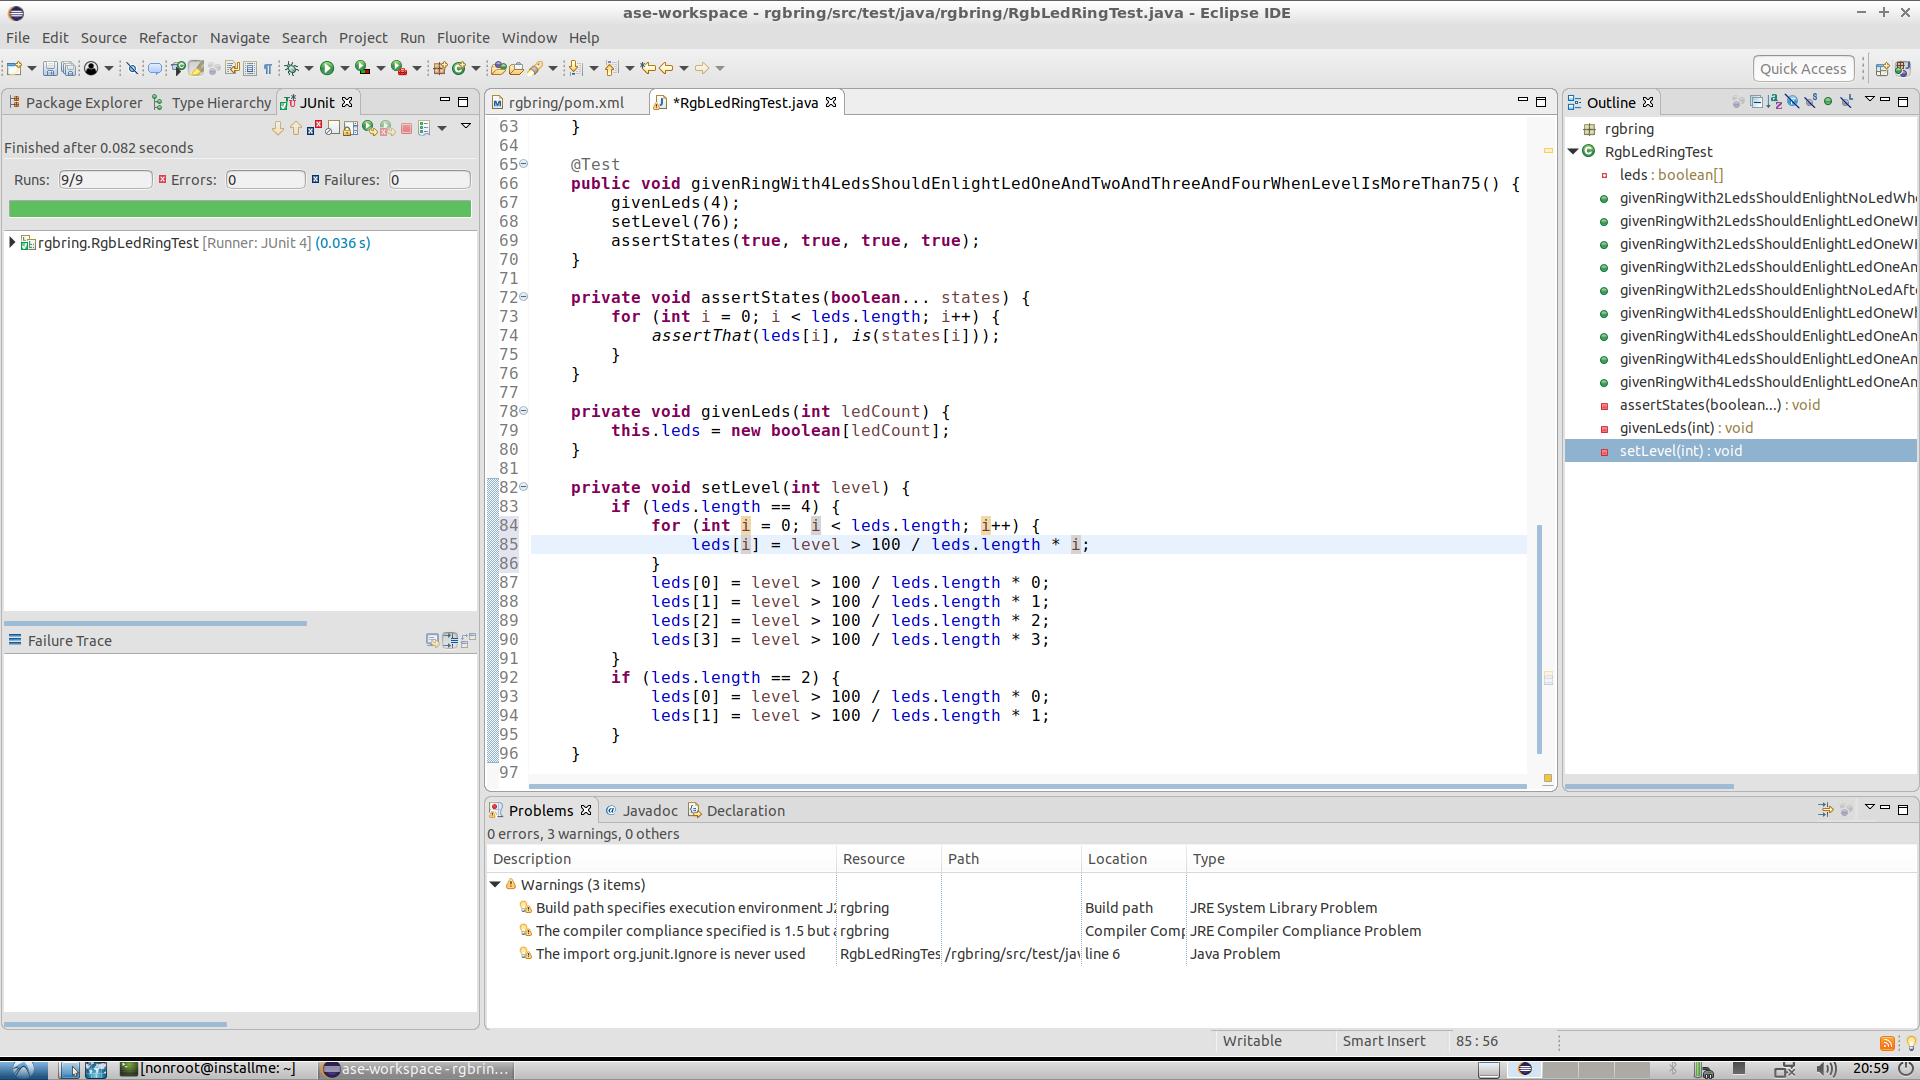
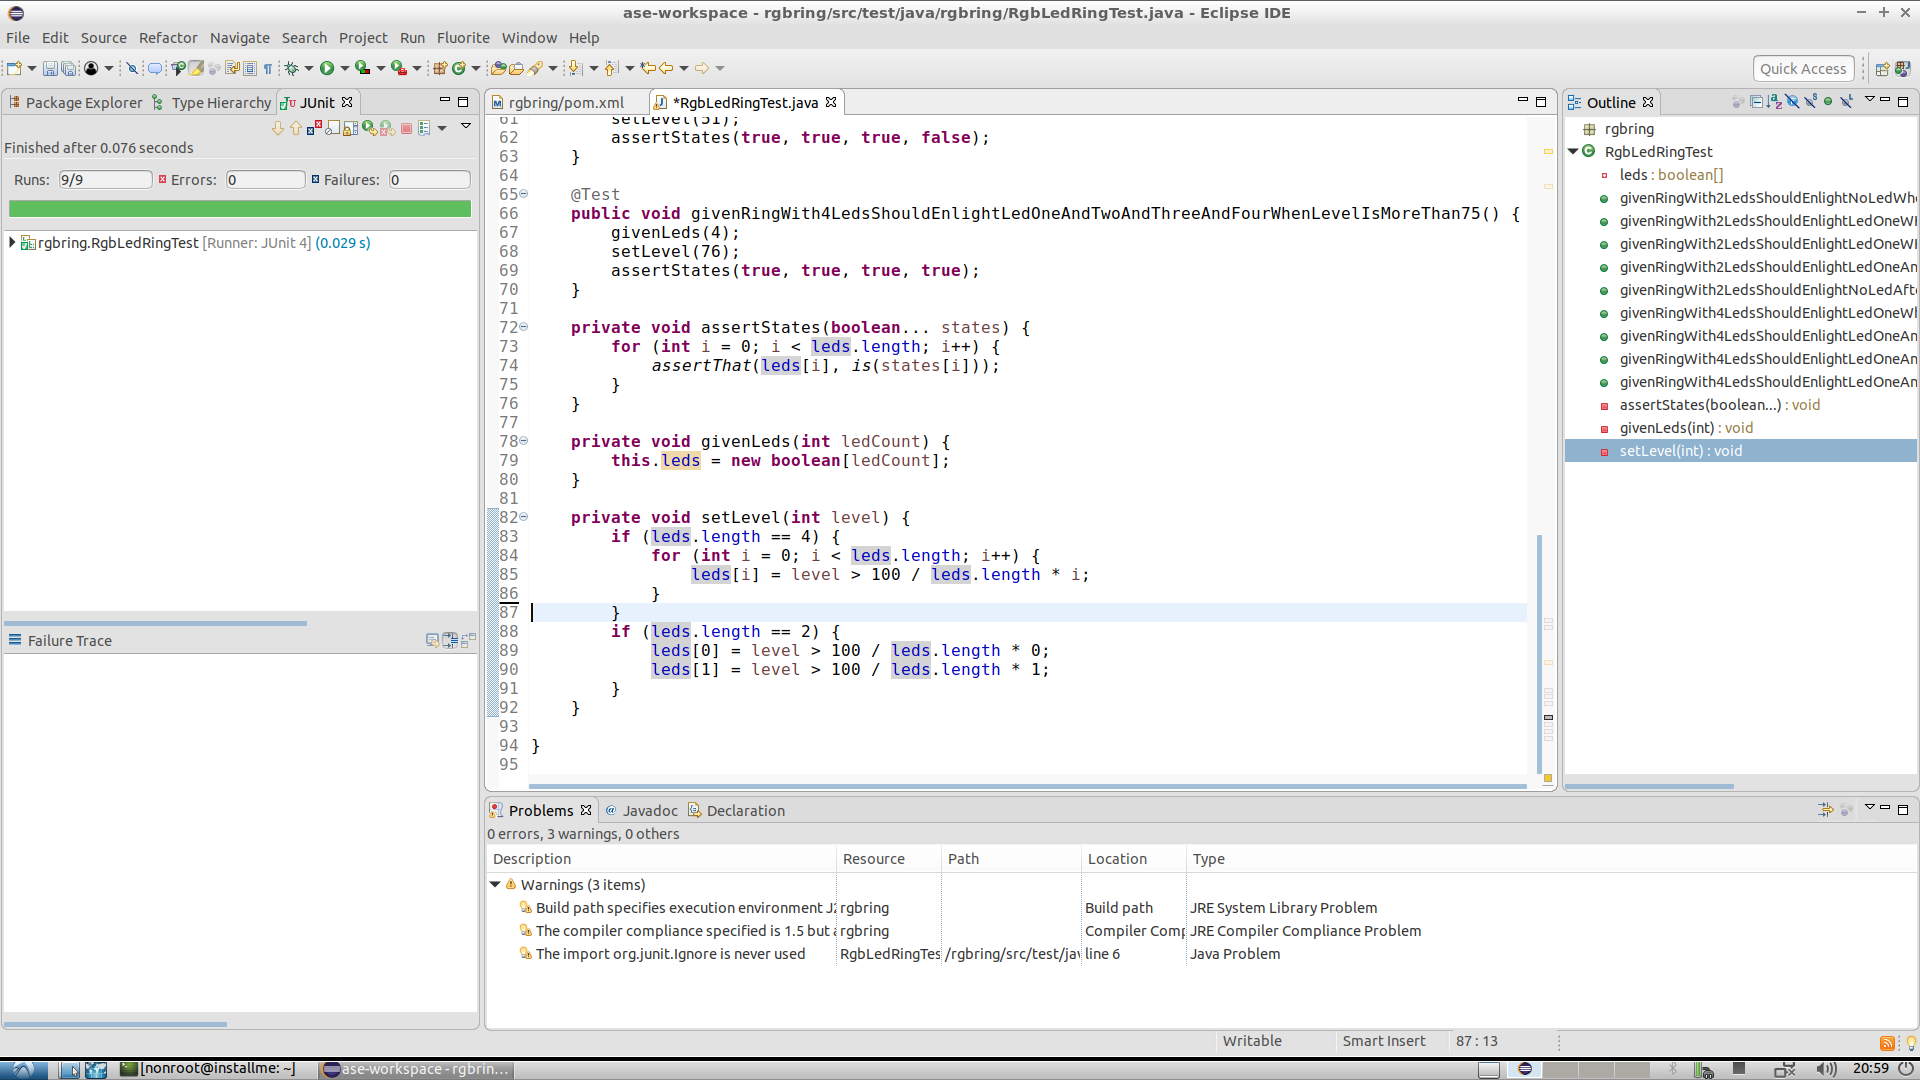
autocommit on change

Changed region(s): [[0.25, 0.0917, 0.7812, 0.7333]]

diff --git a/src/test/java/rgbring/RgbLedRingTest.java b/src/test/java/rgbring/RgbLedRingTest.java
@@ -84,10 +84,6 @@ public class RgbLedRingTest {
 			for (int i = 0; i < leds.length; i++) {
 				leds[i] = level > 100 / leds.length * i;
 			}
-			leds[0] = level > 100 / leds.length * 0;
-			leds[1] = level > 100 / leds.length * 1;
-			leds[2] = level > 100 / leds.length * 2;
-			leds[3] = level > 100 / leds.length * 3;
 		}
 		if (leds.length == 2) {
 			leds[0] = level > 100 / leds.length * 0;
